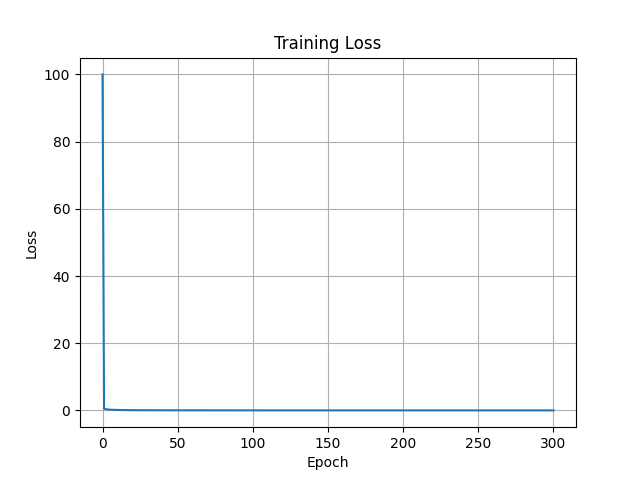
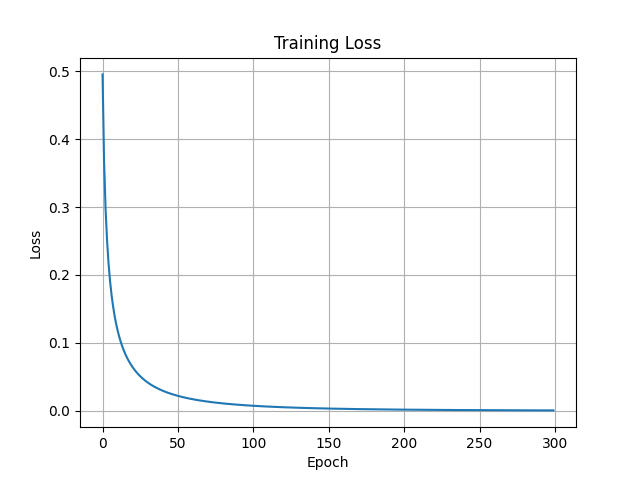
refactor: fixed typos and udpated the loss curve image

diff --git a/docs/tutorials/linear_solve_helmholtz_equation.rst b/docs/tutorials/linear_solve_helmholtz_equation.rst
@@ -430,7 +430,7 @@ respect to :math:`guess_k`, and update :math:`guess_k`:
 
     print(guess_k)
 
-After training for 300 epochs, the :math:`guess_k` value should be closer to our origina :math:`k` value.
+After training for 300 epochs, the :math:`guess_k` value should be closer to our original :math:`k` value.
 Here is how the loss curve looks like:
 
 .. code-block:: text
@@ -452,7 +452,7 @@ Here is how the loss curve looks like:
 
         def plot_loss(losses):
             import matplotlib.pyplot as plt
-            plt.plot(losses.detach().numpy())
+            plt.plot(losses[1:].detach().numpy())
             plt.title("Training Loss")
             plt.xlabel("Epoch")
             plt.ylabel("Loss")
